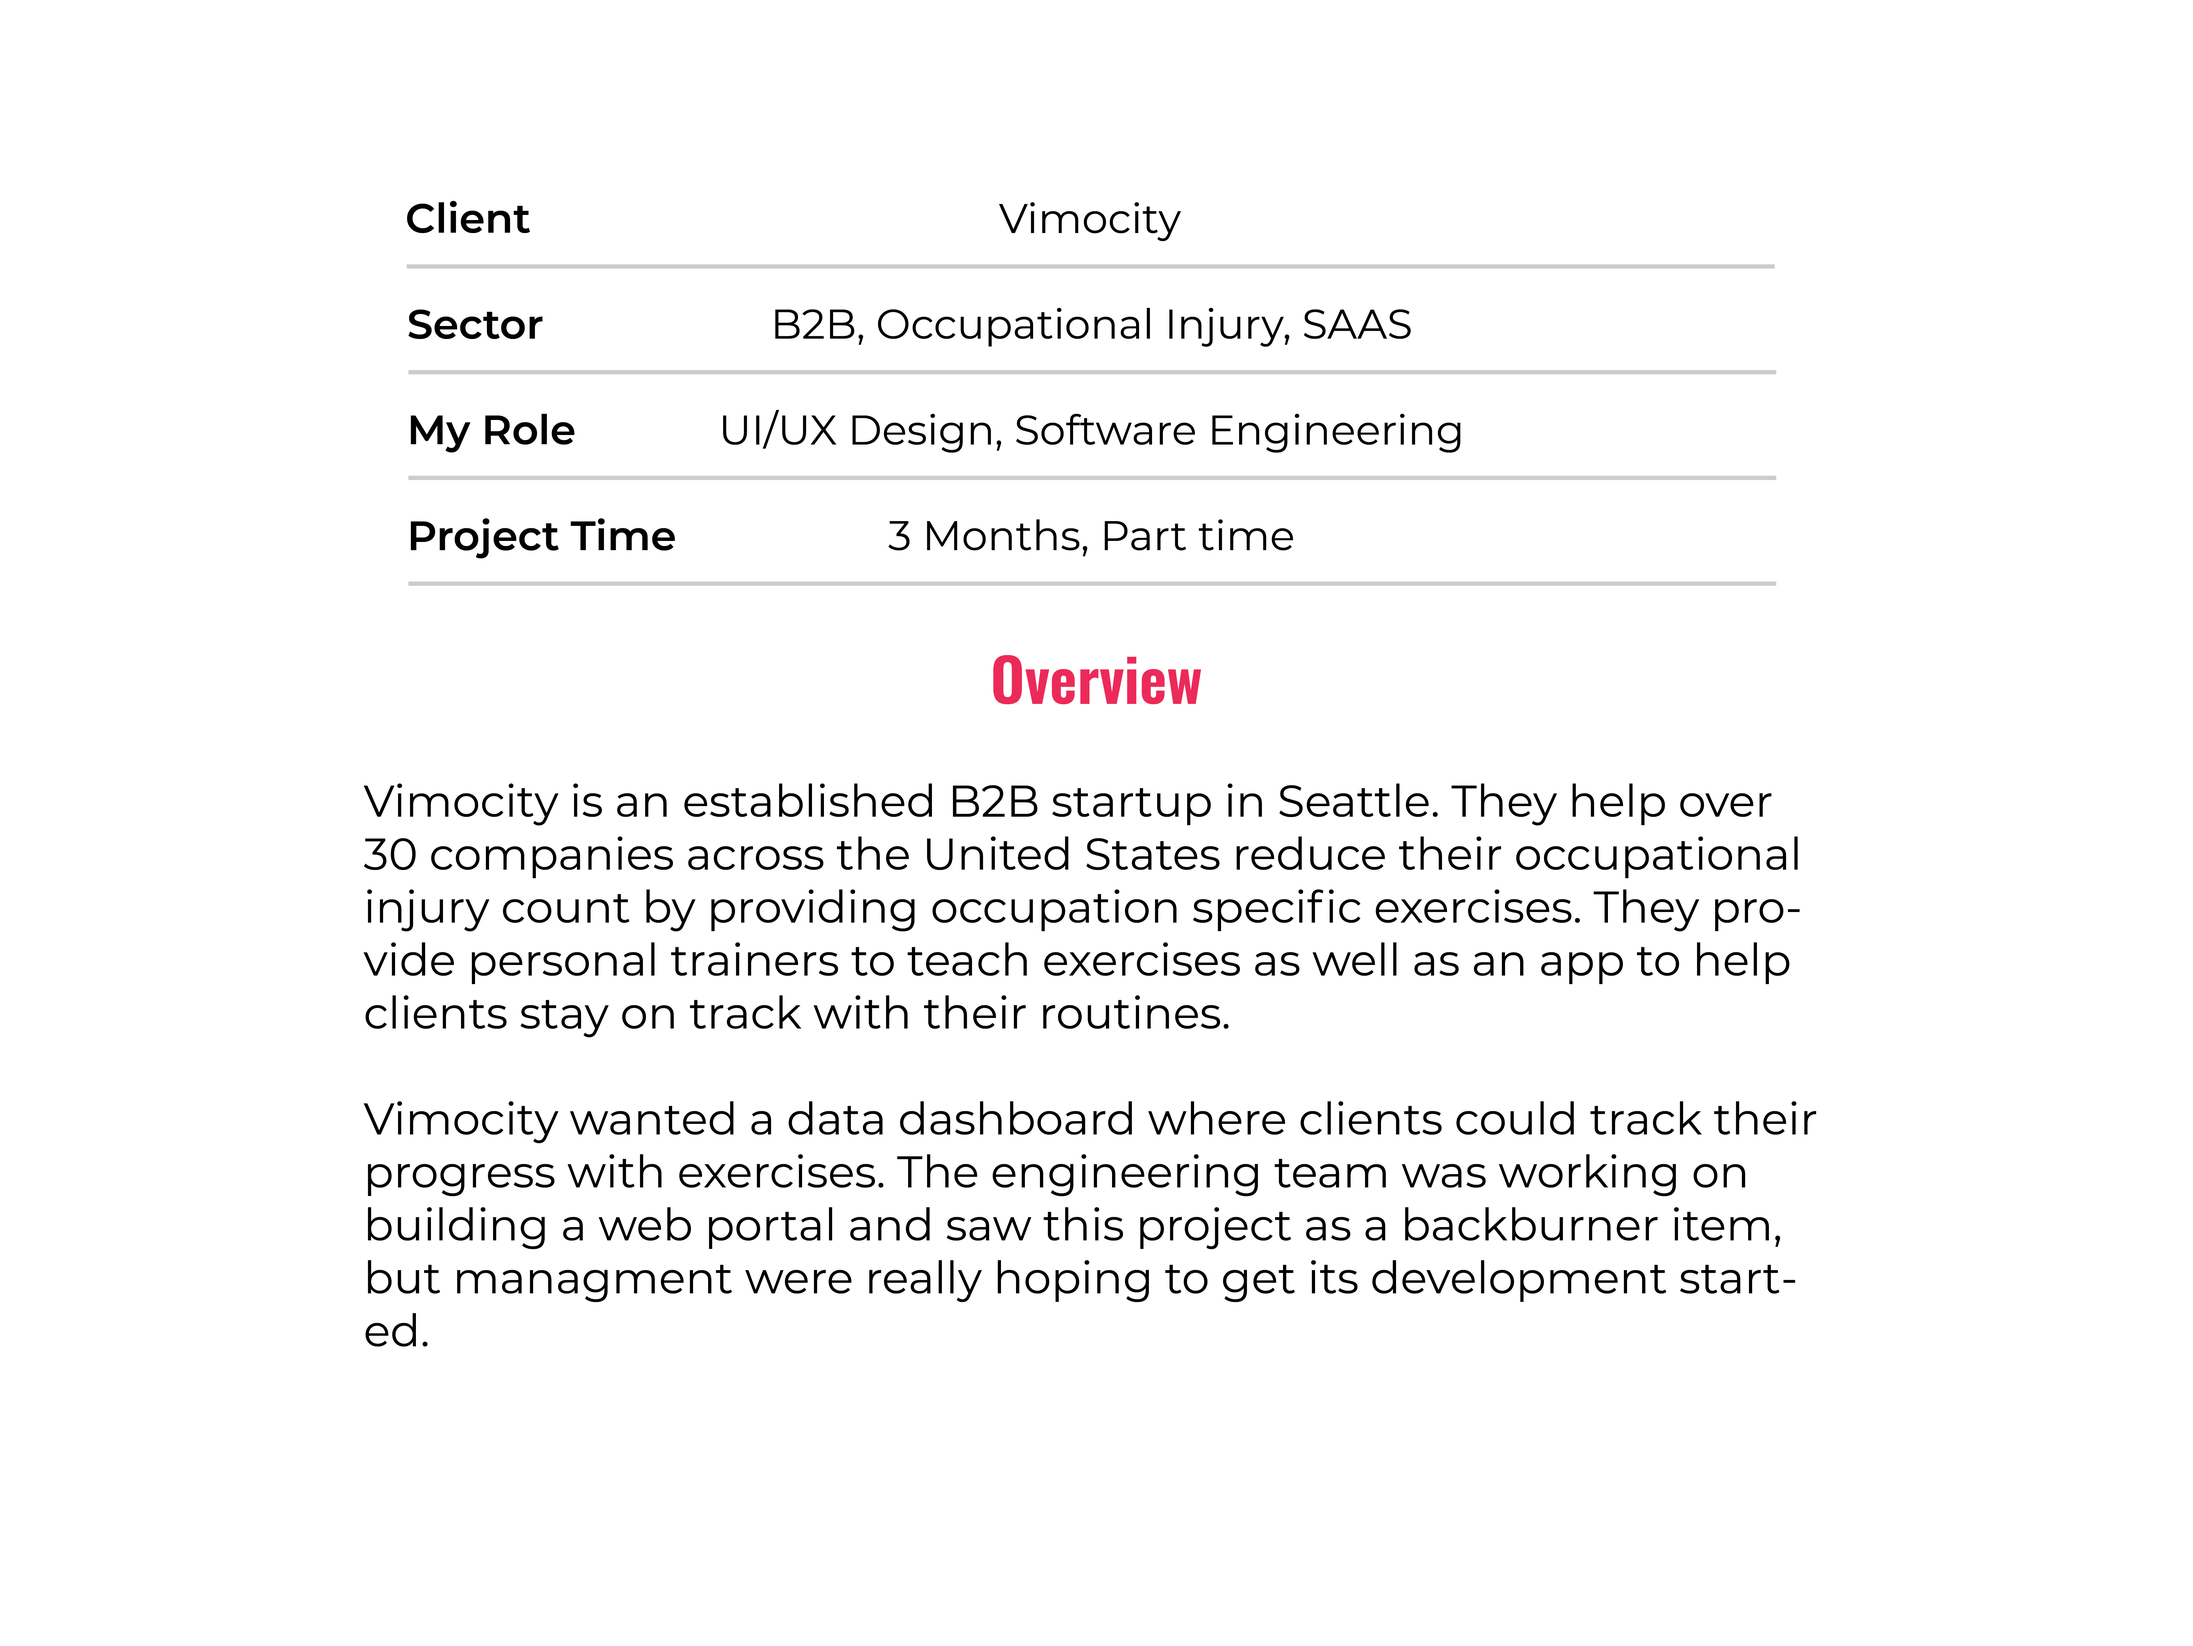
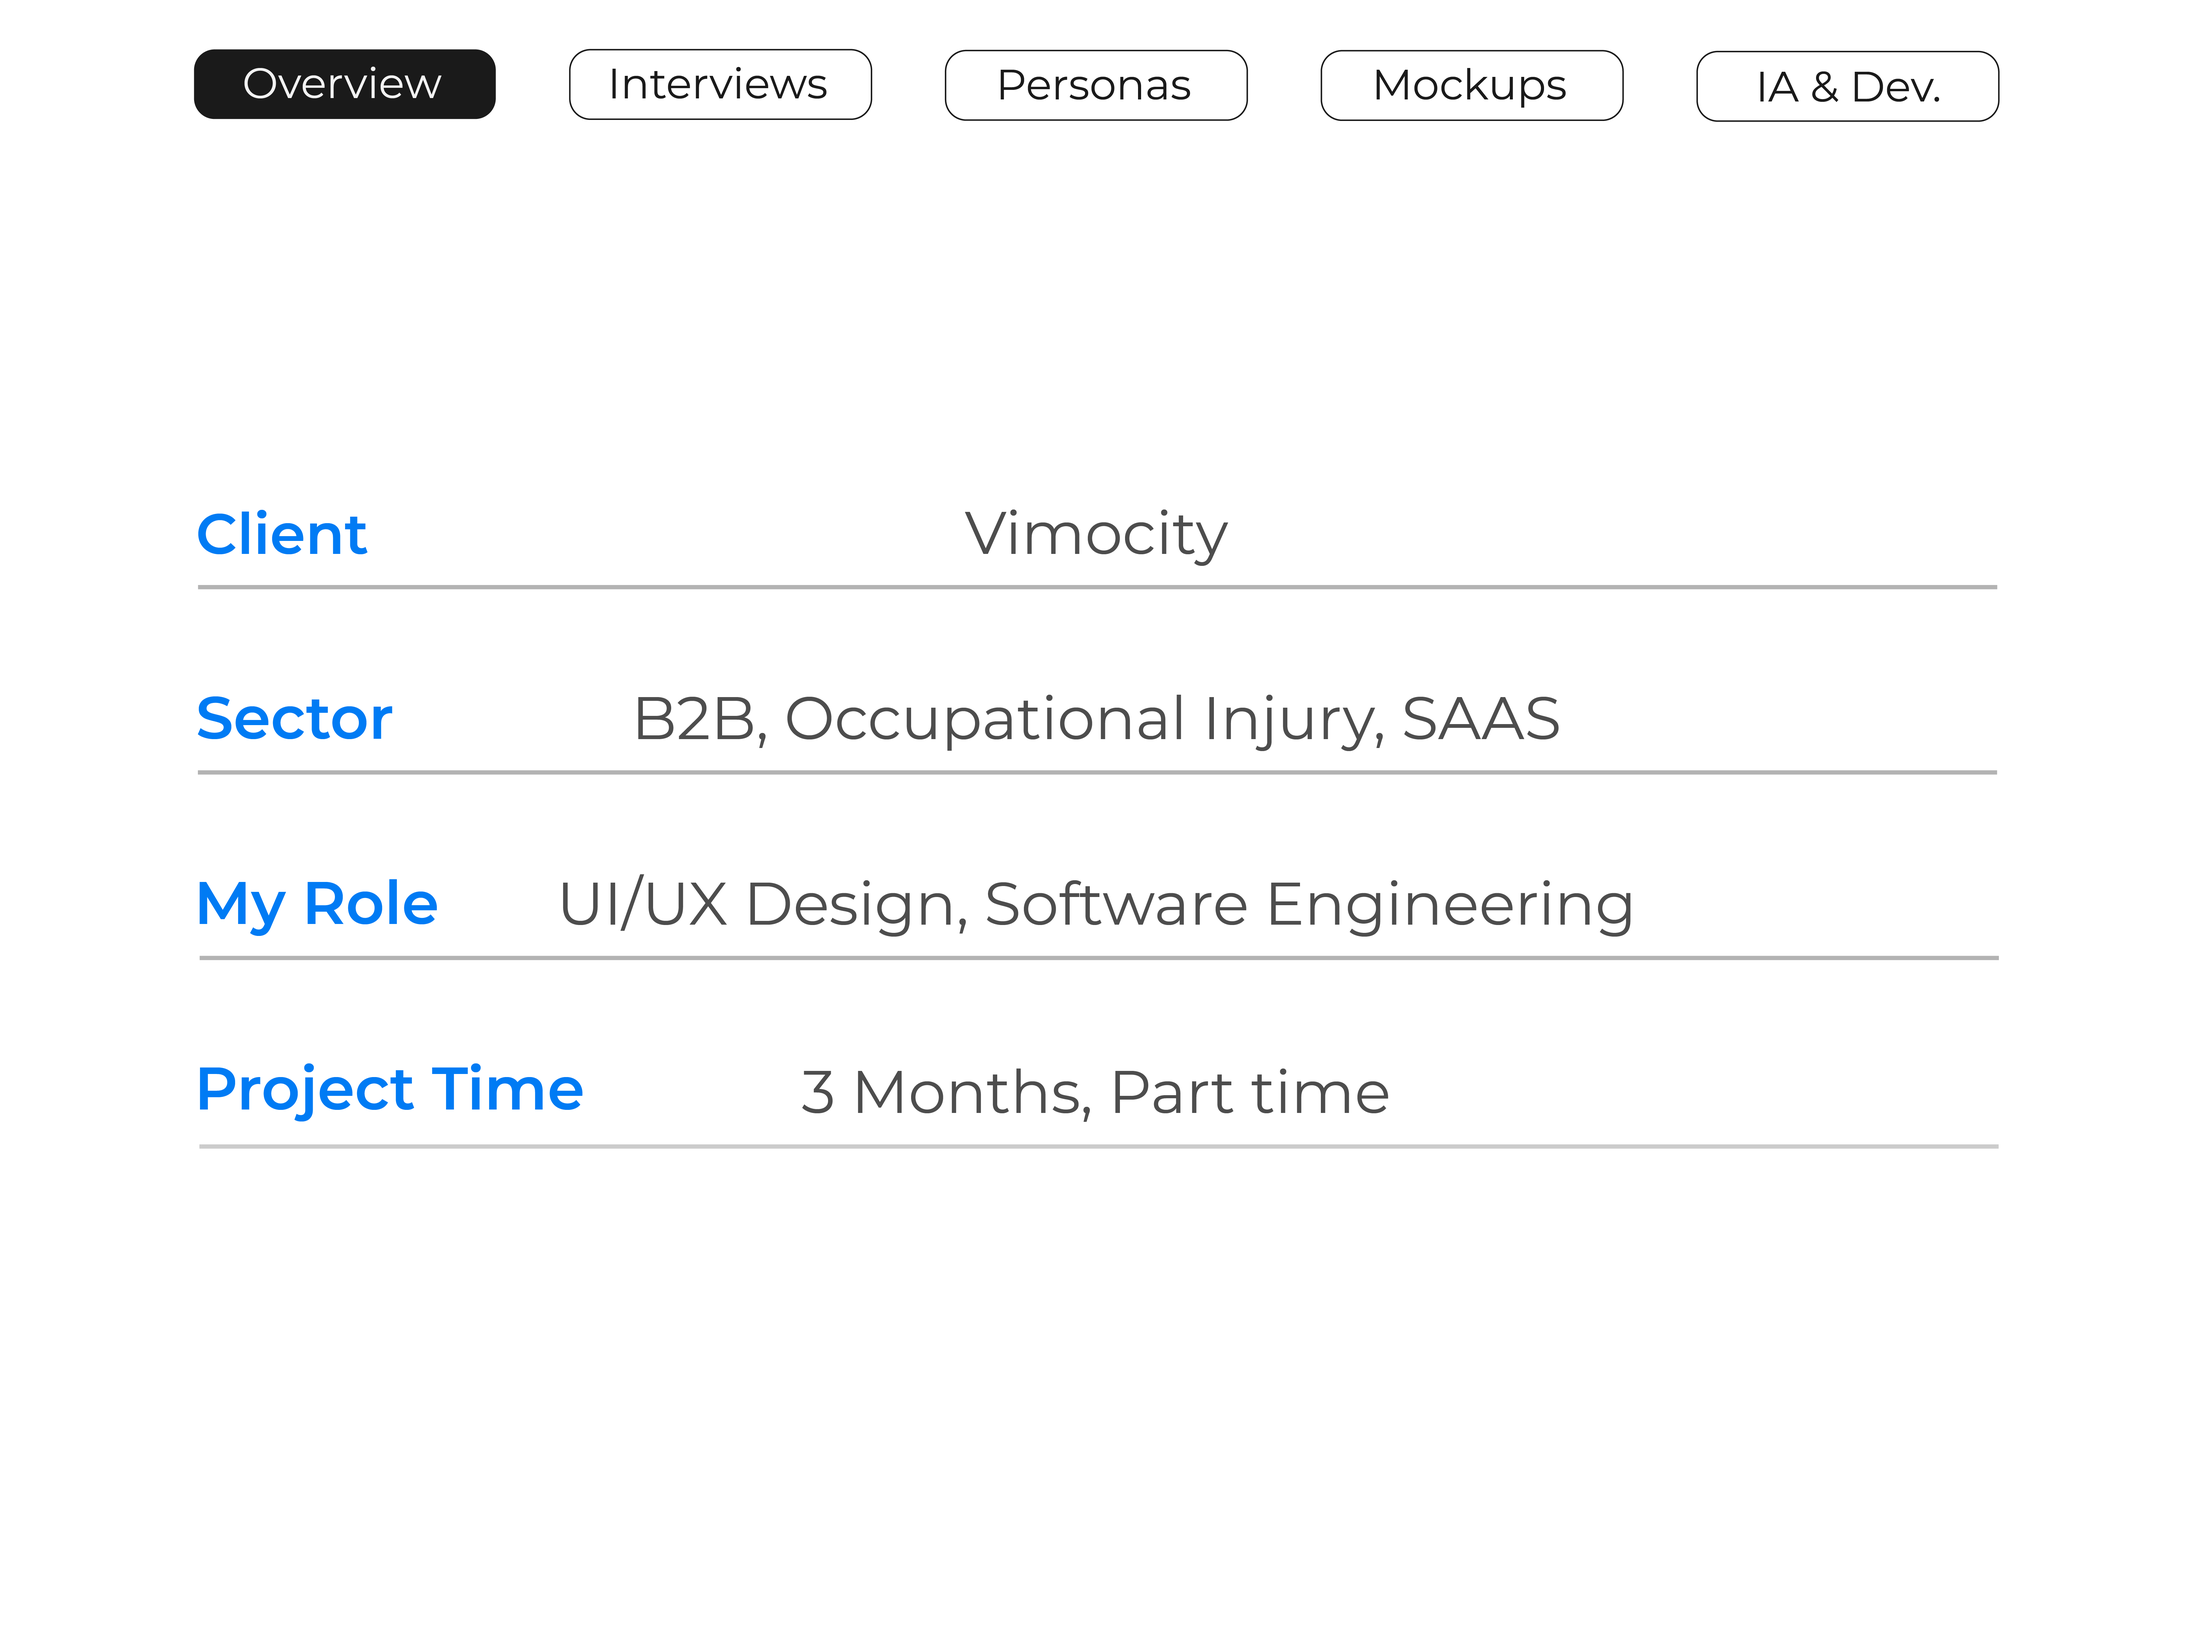
add self-designed slides for Vimocity 1-3

diff --git a/Work.html b/Work.html
@@ -43,19 +43,16 @@
                   <label for="i2" class="nxt"><i class="arrow right"></i></label>
                 </div>
                 <div class="slide_img" id="two">
-                  <img src="./Img/SliderImg2.png" alt="SliderImg2">
+                  <img src="./Img/Vim-Interviews.png" alt="SliderImg2">
                   <label for="i1" class="pre"><i class="arrow left"></i></label>
                   <label for="i3" class="nxt"><i class="arrow right"></i></label>
                 </div>
                 <div class="slide_img" id="three">
-                  <img src="./Img/SliderImg1.png" alt="SliderImg1">
+                  <img src="./Img/Vim-Personas.png" alt="SliderImg1">
                   <label for="i2" class="pre"><i class="arrow left"></i></label>
                   <label for="i1" class="nxt"><i class="arrow right"></i></label>
                 </div>
                 <div class="dot-nav">
-                  <label for="i1" class="dot" id="dot1"></label>
-                  <label for="i2" class="dot" id="dot2"></label>
-                  <label for="i3" class="dot" id="dot3"></label>
                 </div>
               </div>
           </div>

diff --git a/css/Home.css b/css/Home.css
@@ -17,9 +17,9 @@ h2{
   font-weight: 500;
 }
 h1{
-  font-size: 22px;
-  font-family: 'Oswald', sans-serif;
-  font-weight: 500;
+  font-size: 28px;
+  font-family: 'Montserrat', sans-serif;
+  font-weight: 400;
   color: white;
   padding-bottom: 10px;
 }
